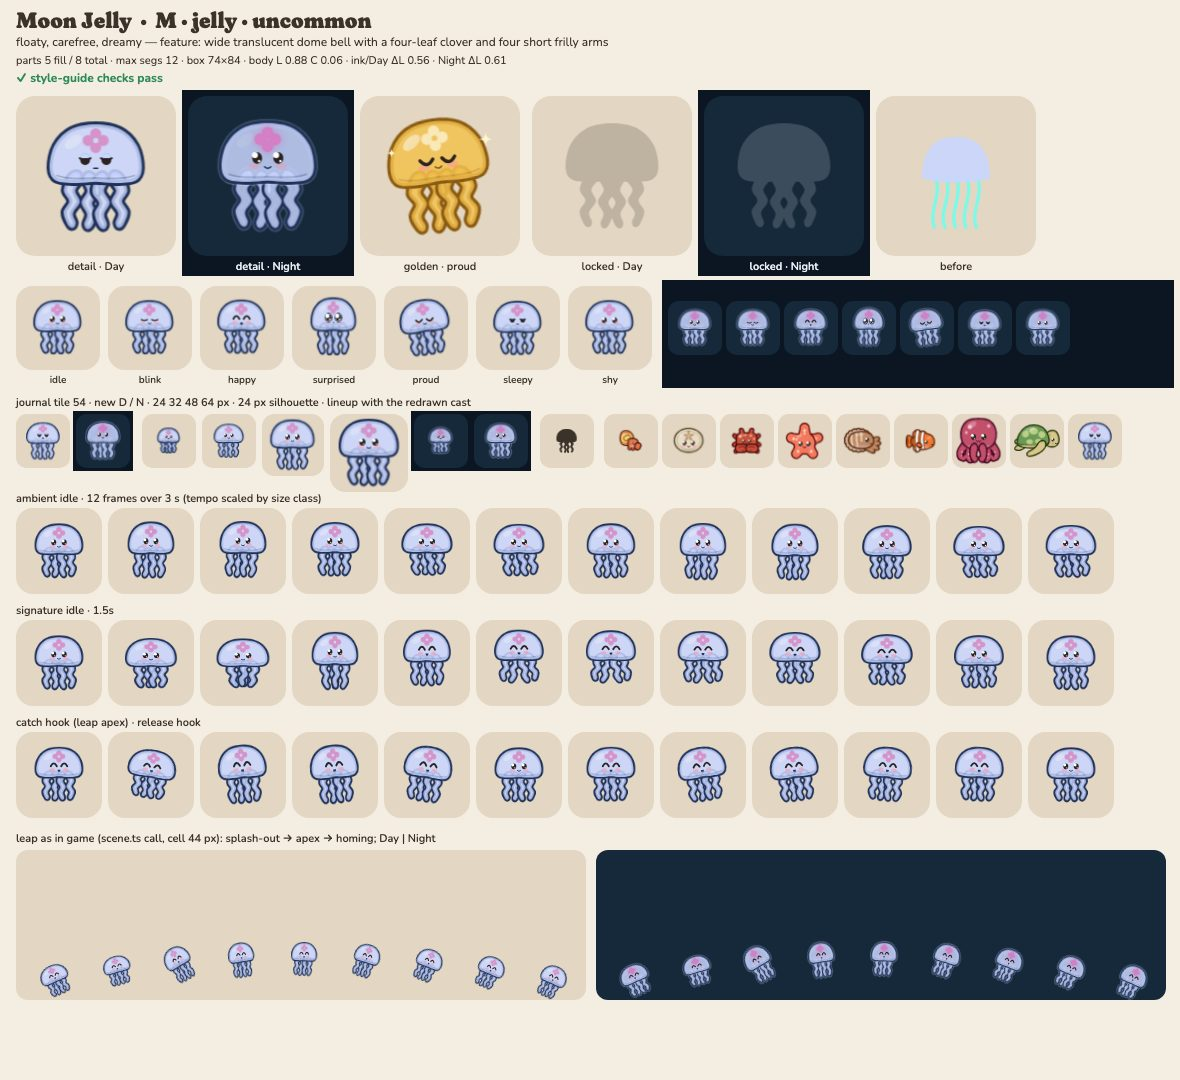
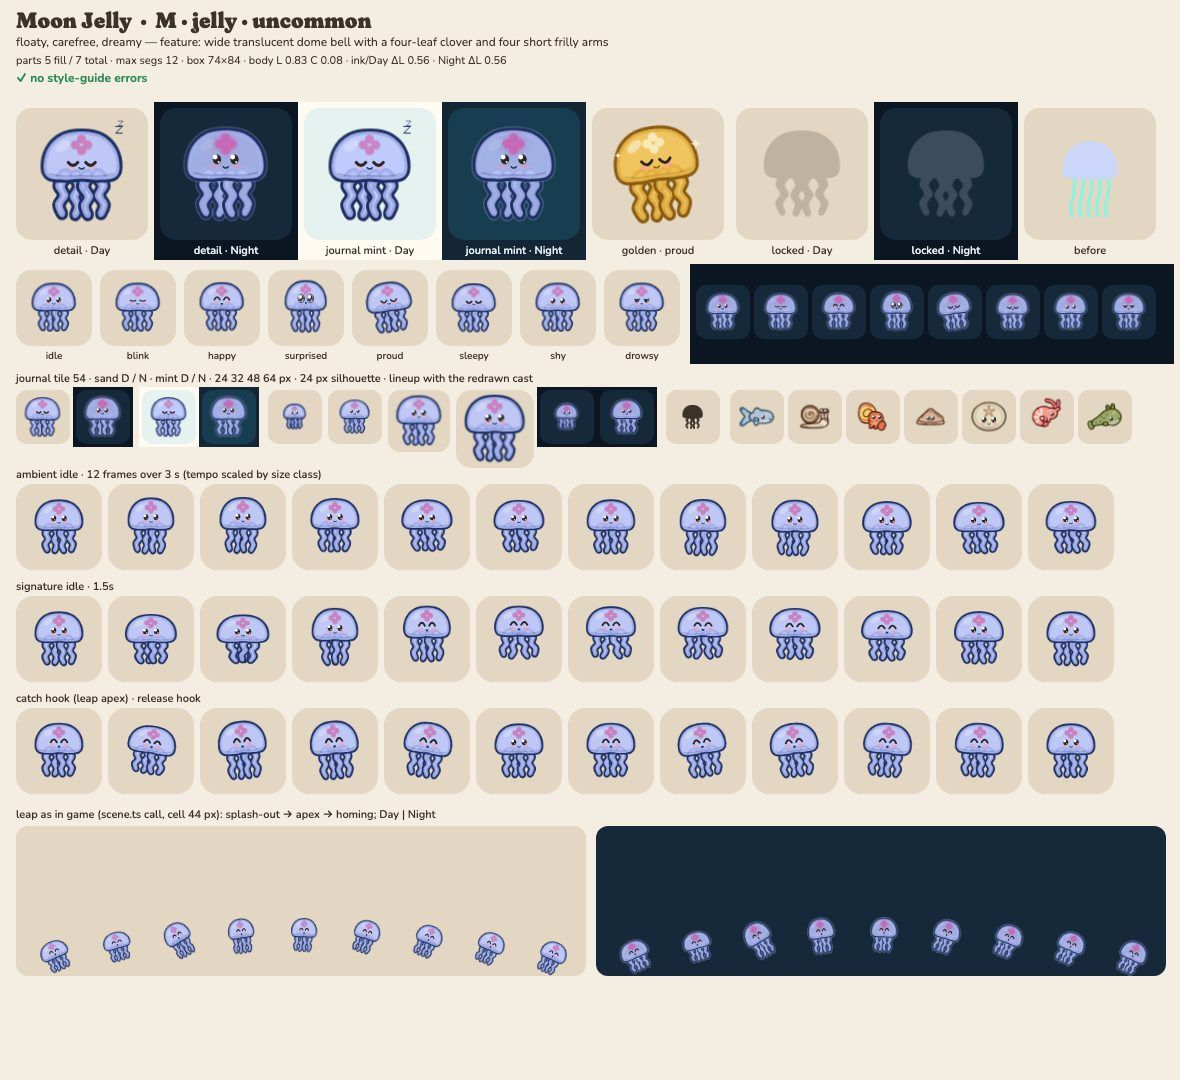
art: moonjelly lint pass — richer periwinkle bell, no sub-6 dot (CRITIQUE-1)
render: moon jelly, lint fixes only (graded A). Bell #B8C4FF (chroma 0.08, clears the mint
journal tile by ΔE ≥ 0.1, R16S/R16M), clover accent #C86AB8 to keep ΔL ≥ 0.15, the 4-unit centre
dot of the clover dropped (R18W). Shape, motion and expressions unchanged.
Lint ✓. Closest IoU combjelly/moonjelly 0.67, moonjelly/seasparkle 0.62.

diff --git a/src/render/art/species/moonjelly.ts b/src/render/art/species/moonjelly.ts
@@ -47,7 +47,7 @@ export default defineArt({
   size: 'M',
   feature: 'wide translucent dome bell with a four-leaf clover and four short frilly arms',
   personality: ['floaty', 'carefree', 'dreamy'],
-  palette: { body: '#C9D6FF', accent: '#D47FC6' },
+  palette: { body: '#B8C4FF', accent: '#C86AB8' },
   groups: [
     {
       id: 'armsL',
@@ -71,7 +71,6 @@ export default defineArt({
       parts: [
         { d: bell, role: 'body', alpha: 0.85 },
         { d: clover, role: 'light', kind: 'pattern', alpha: 0.9 },
-        { d: circle(0, -28, 2.2), role: 'body', kind: 'pattern' },
         // the frilly rim: a soft inner line just above the bell edge
         { d: 'M-31 0C-20 4 -10 2 0 2C10 2 20 4 31 0', role: 'ink', kind: 'line', w: 1.4, alpha: 0.3 },
       ],
